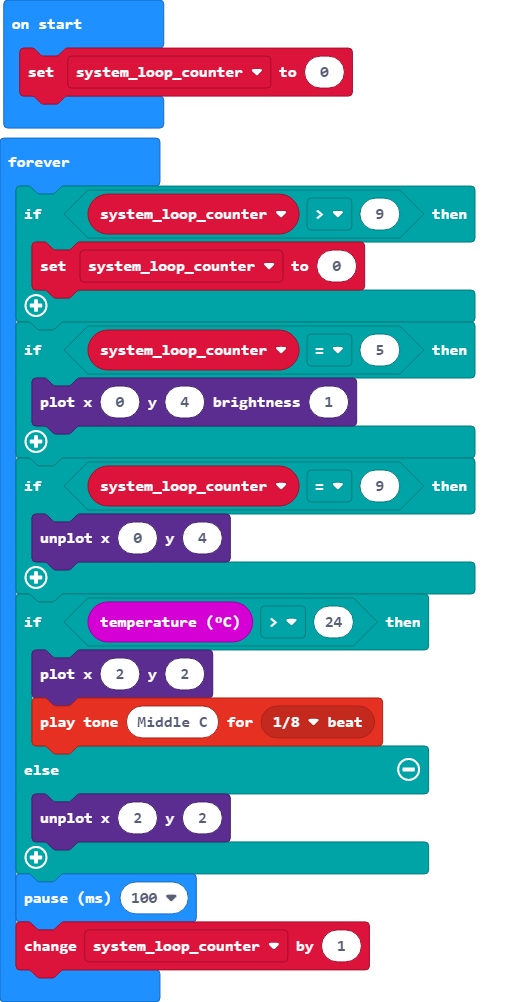
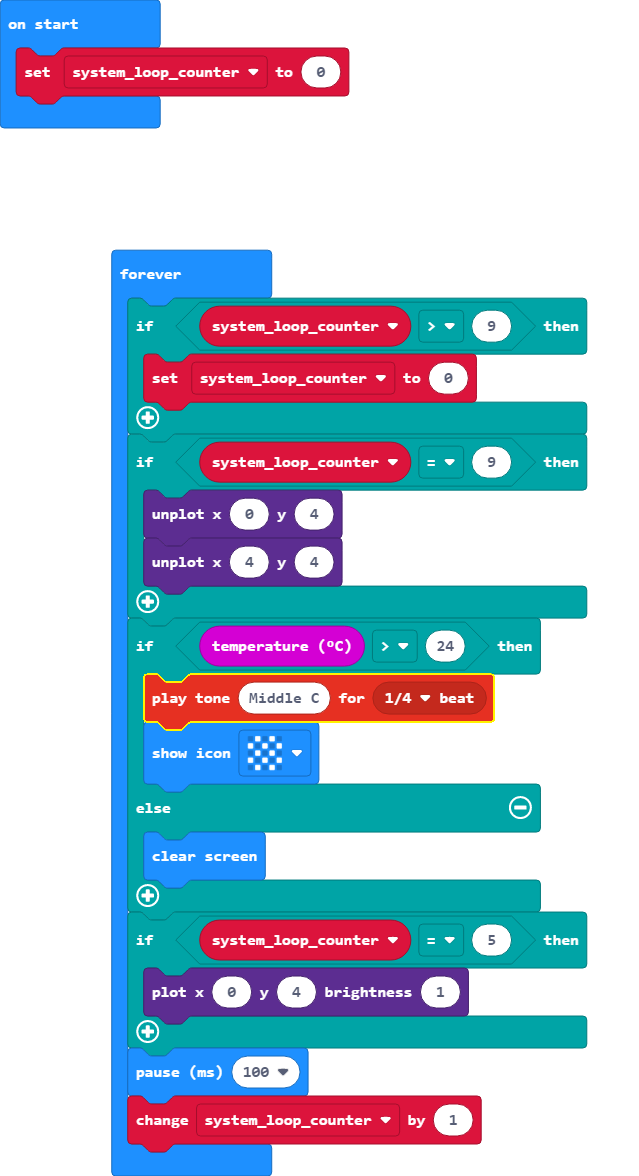
Update main.blocks, main.ts

diff --git a/main.ts b/main.ts
@@ -3,17 +3,18 @@ basic.forever(function () {
     if (system_loop_counter > 9) {
         system_loop_counter = 0
     }
-    if (system_loop_counter == 5) {
-        led.plotBrightness(0, 4, 1)
-    }
     if (system_loop_counter == 9) {
         led.unplot(0, 4)
+        led.unplot(4, 4)
     }
     if (input.temperature() > 24) {
-        led.plot(2, 2)
-        music.playTone(262, music.beat(BeatFraction.Eighth))
+        music.playTone(262, music.beat(BeatFraction.Quarter))
+        basic.showIcon(IconNames.Chessboard)
     } else {
-        led.unplot(2, 2)
+        basic.clearScreen()
+    }
+    if (system_loop_counter == 5) {
+        led.plotBrightness(0, 4, 1)
     }
     basic.pause(100)
     system_loop_counter += 1
